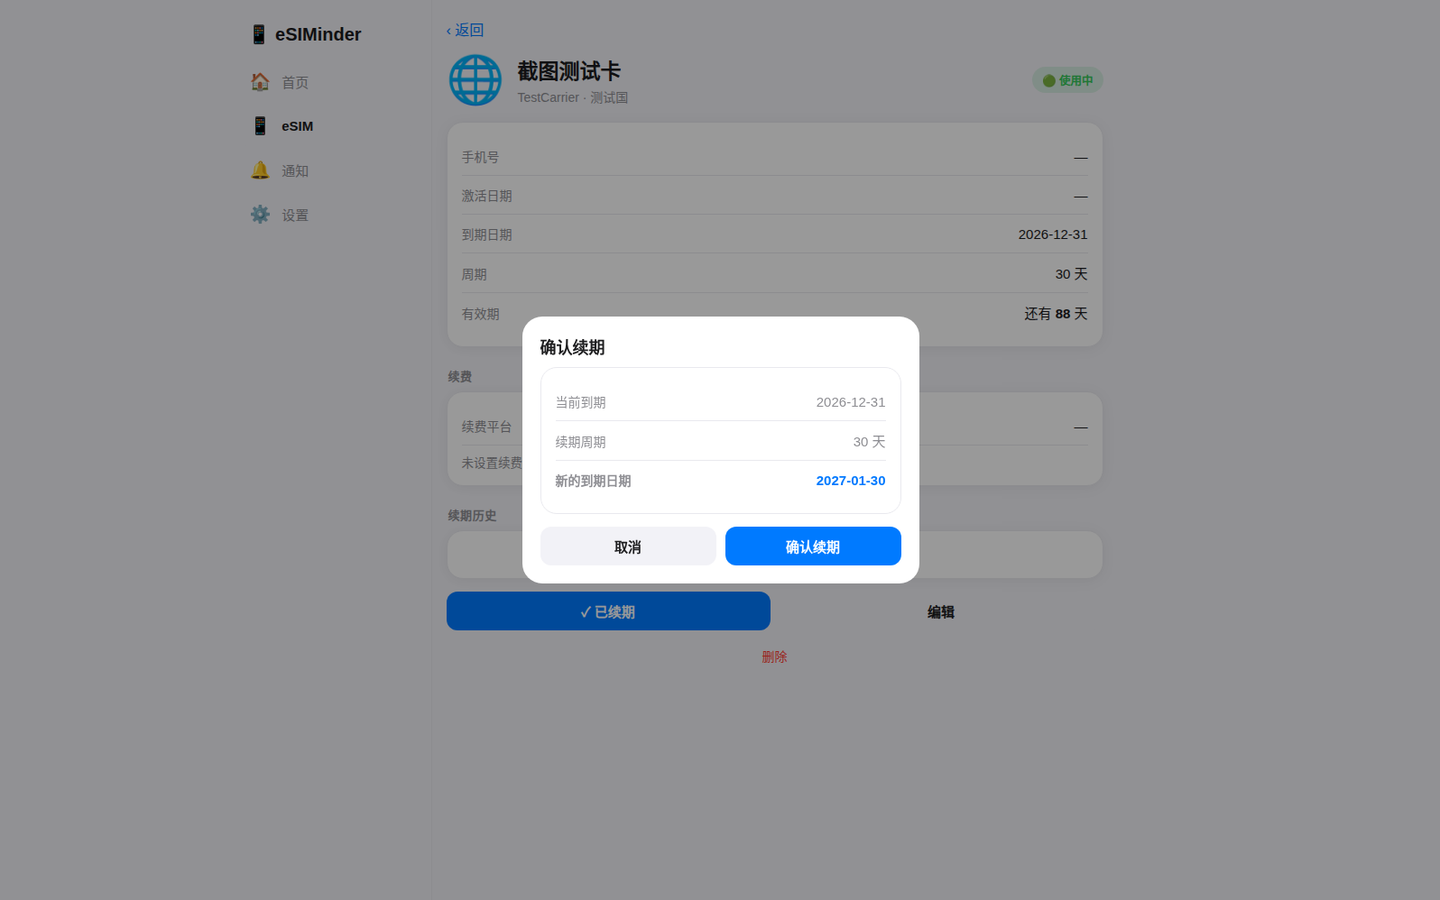
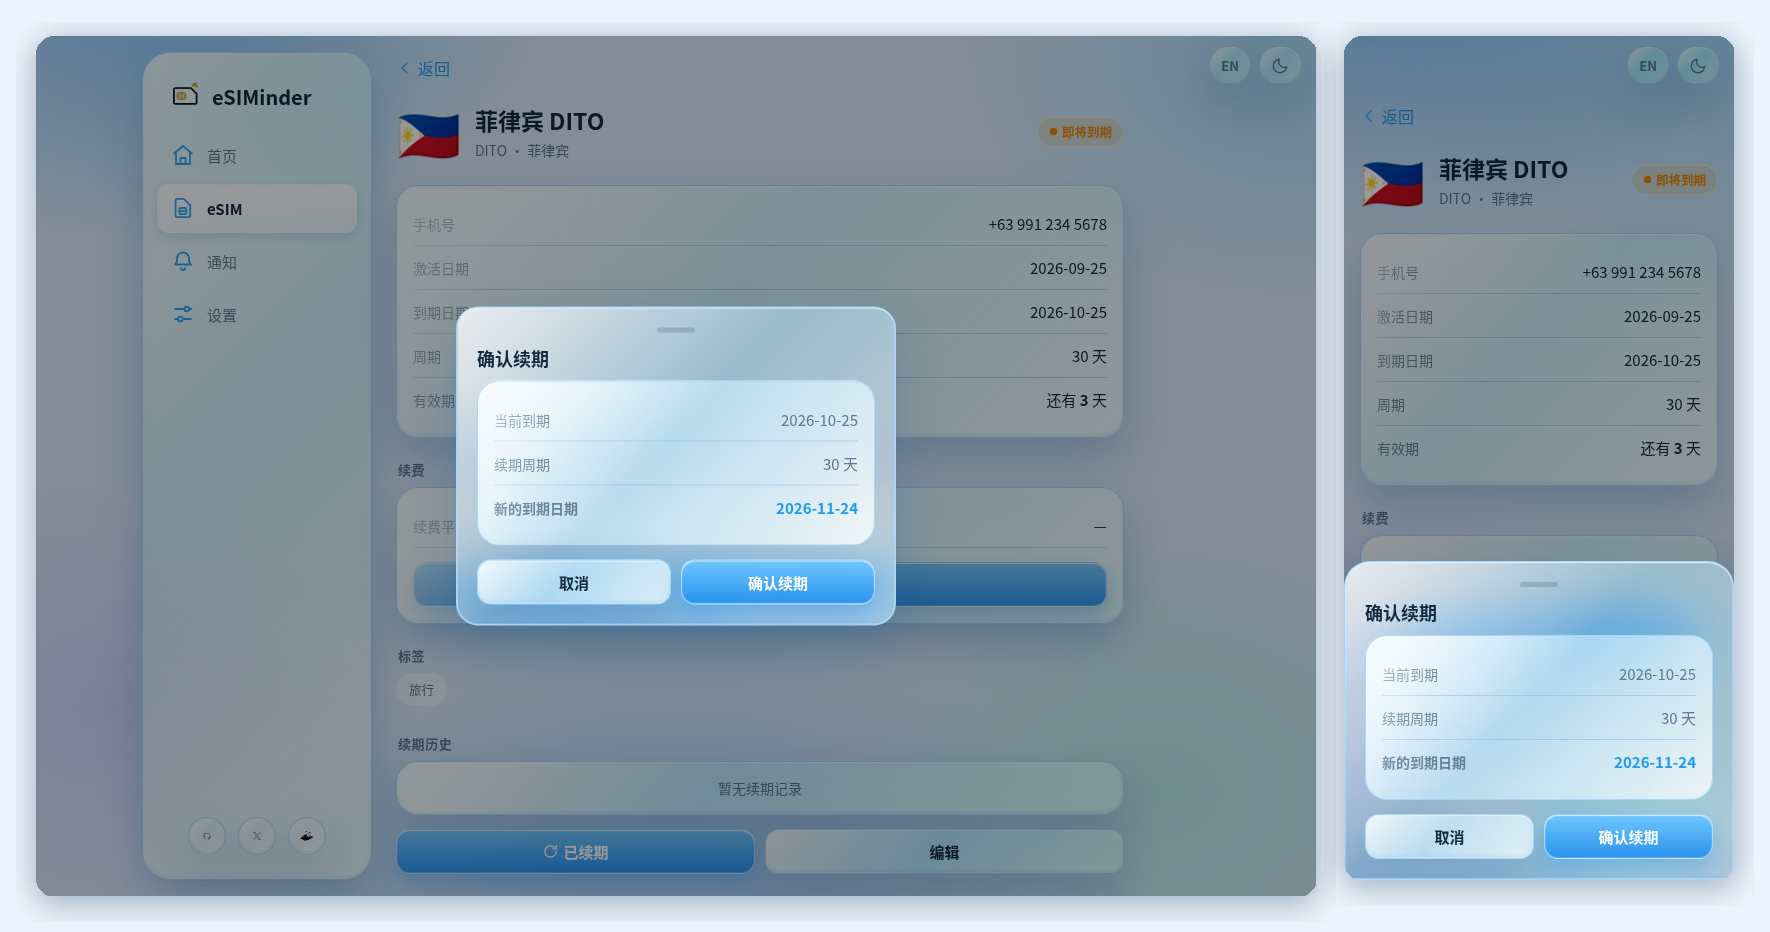
docs: new Liquid Glass screenshot composites (desktop+mobile) for dashboard/detail/renewal/notifications; drop the standalone mobile shot

diff --git a/README.en.md b/README.en.md
@@ -71,12 +71,6 @@ Fully hosted on Workers + D1 + KV — zero servers, zero maintenance. One click 
   <img src="./docs/screenshots/notifications.png" alt="Notification Channels" width="900">
 </p>
 
-### Mobile
-
-<p align="center">
-  <img src="./docs/screenshots/mobile.png" alt="Mobile UI" width="320">
-</p>
-
 ## 👤 Who It's For
 
 - Frequent travelers with a pocketful of travel eSIMs
